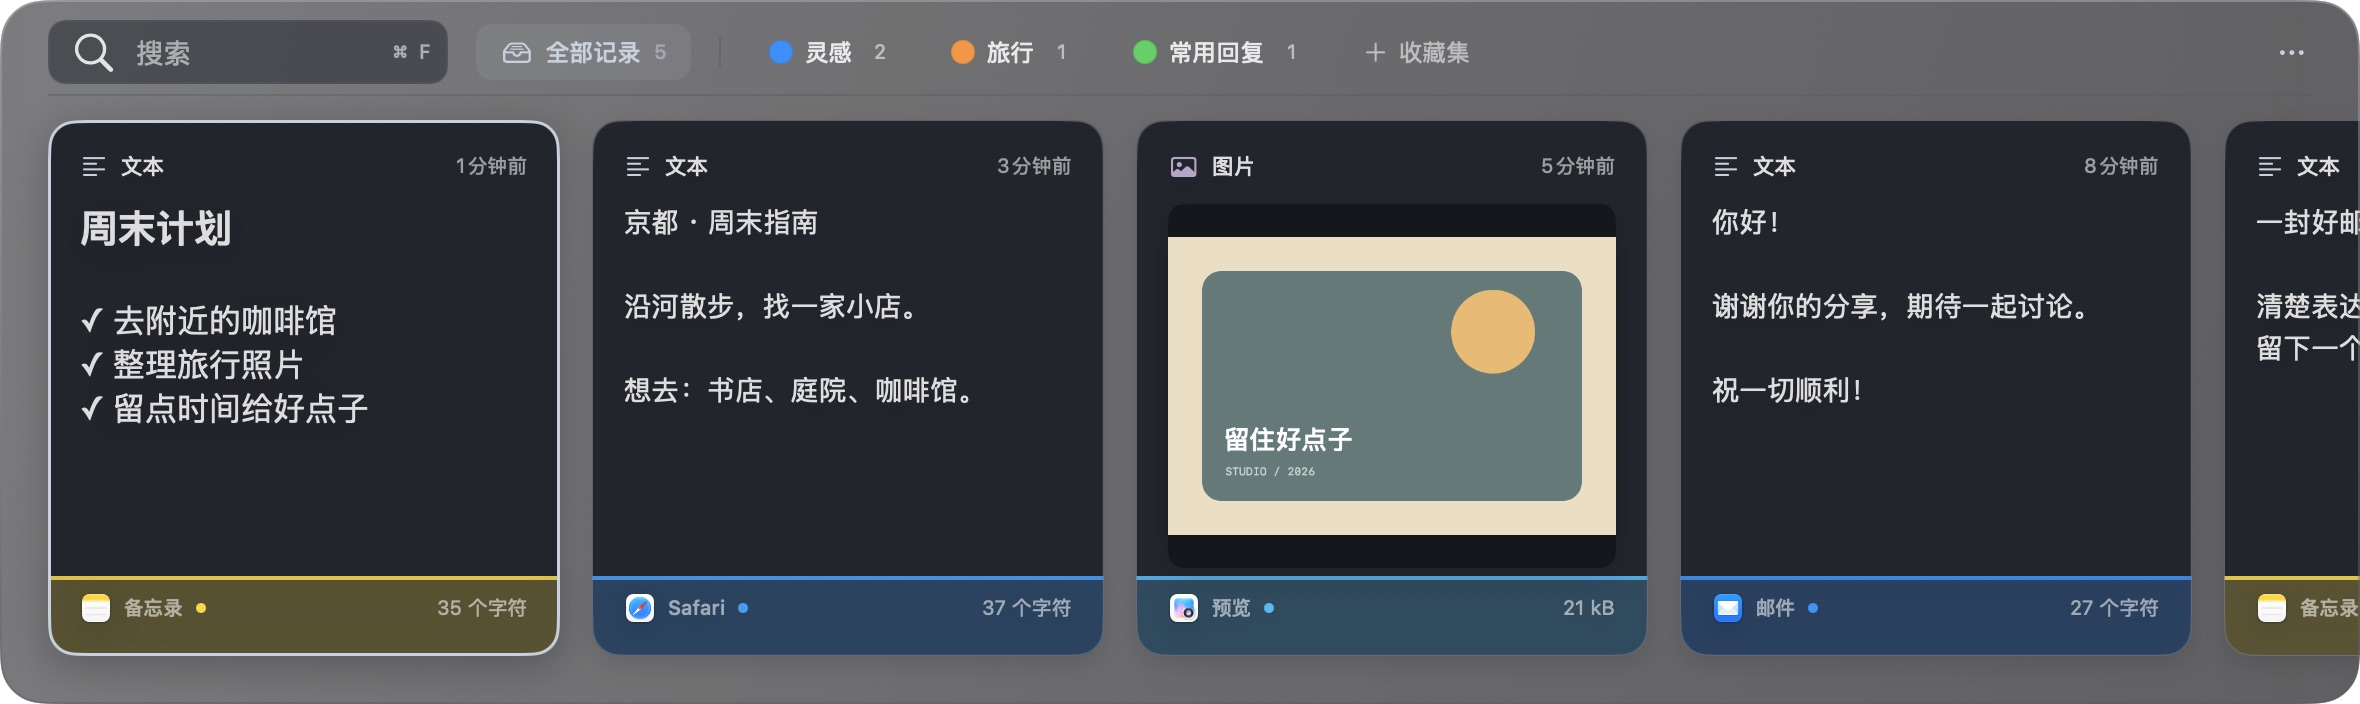
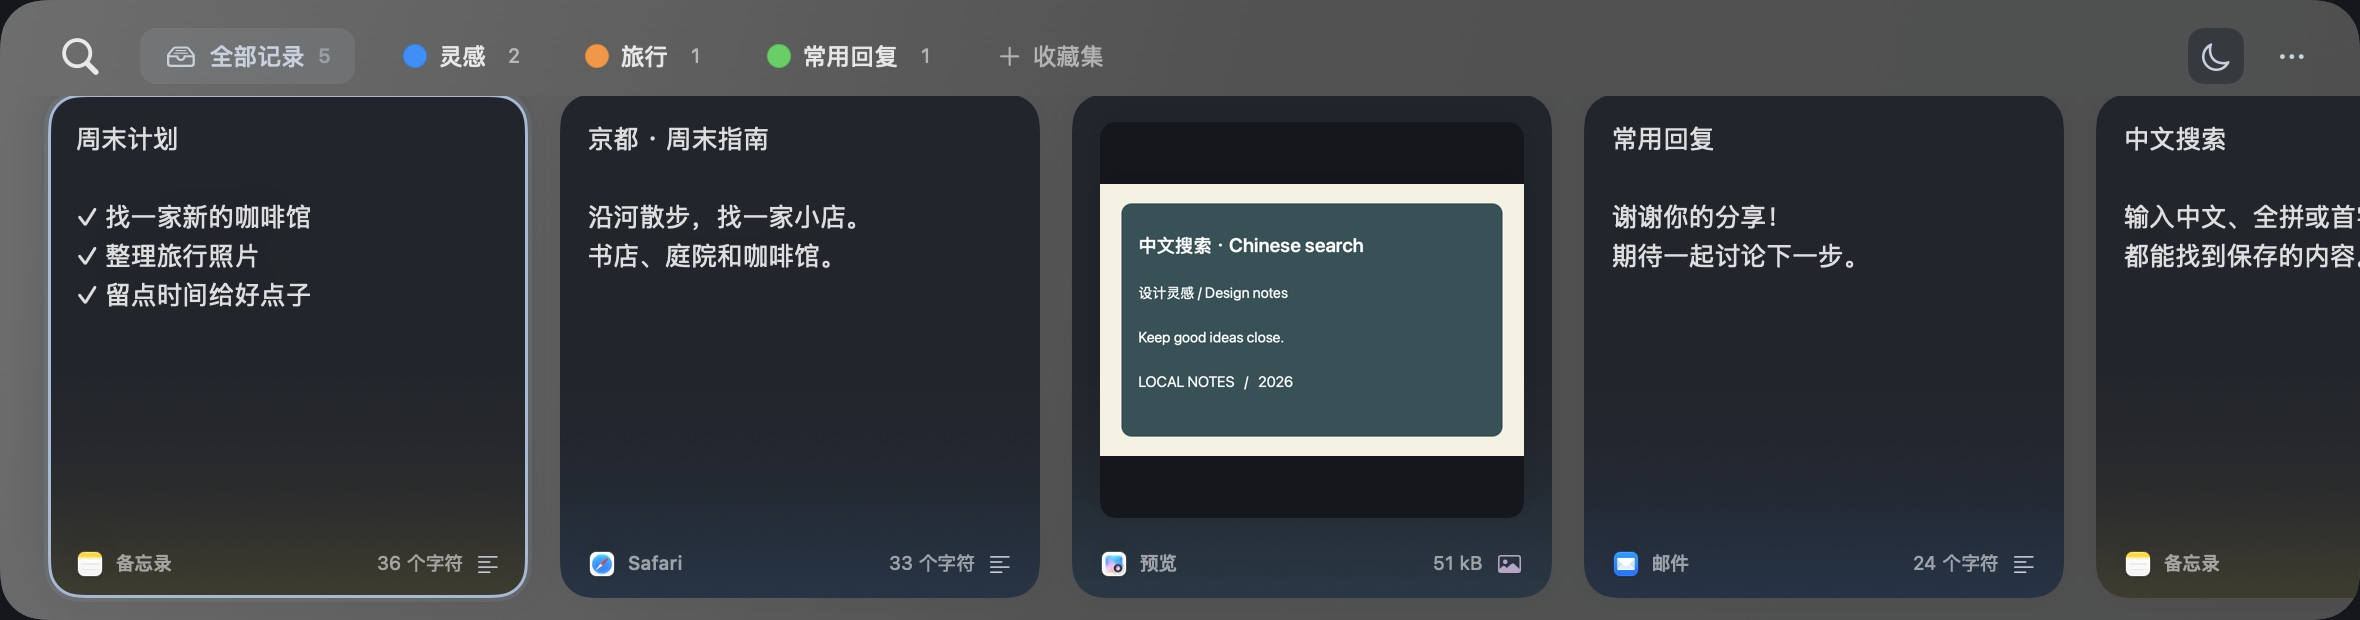
docs: illustrate features with isolated bilingual screenshots

diff --git a/docs/screenshots/main.swift b/docs/screenshots/main.swift
@@ -1,0 +1,142 @@
+import AppKit
+import SwiftUI
+import ClipboardCore
+
+// This executable never orders a window onscreen, activates an app, or uses the general pasteboard.
+@MainActor final class ScreenshotDelegate: NSObject, NSApplicationDelegate {
+    let directory = URL(fileURLWithPath: CommandLine.arguments[1], isDirectory: true)
+    let temporary = FileManager.default.temporaryDirectory.appendingPathComponent(UUID().uuidString)
+    let domain = "local.clipshelf.docs.\(UUID().uuidString)"
+    let board = NSPasteboard(name: .init("ClipShelf-docs-\(UUID().uuidString)"))
+    var chinese = false
+    var model: ClipboardModel!
+    var imageClip: Clip!
+
+    func applicationDidFinishLaunching(_ notification: Notification) {
+        Task {
+            do {
+                try FileManager.default.createDirectory(at: temporary, withIntermediateDirectories: true)
+                try FileManager.default.createDirectory(at: directory, withIntermediateDirectories: true)
+                for language in [AppLanguage.english, .chinese] { try await render(language) }
+                print("Rendered isolated screenshots without activating or displaying a window.")
+                cleanup(); NSApp.terminate(nil)
+            } catch {
+                fputs("Screenshot generation failed: \(error)\n", stderr)
+                cleanup(); exit(1)
+            }
+        }
+    }
+    func cleanup() {
+        board.releaseGlobally()
+        UserDefaults(suiteName: domain)?.removePersistentDomain(forName: domain)
+        try? FileManager.default.removeItem(at: temporary)
+    }
+    func text(_ value: String, app: String, bundle: String) -> Clip {
+        Clip(kind: .text, text: value, sourceName: app, sourceBundle: bundle,
+             items: [[Representation(type: "public.utf8-plain-text", data: Data(value.utf8))]], identity: Data(value.utf8))
+    }
+    func fixture() throws -> History {
+        let artwork = NSImage(size: NSSize(width: 1000, height: 640), flipped: false) { rect in
+            NSColor(srgbRed: 0.96, green: 0.94, blue: 0.88, alpha: 1).setFill(); rect.fill()
+            NSColor(srgbRed: 0.18, green: 0.32, blue: 0.34, alpha: 1).setFill()
+            NSBezierPath(roundedRect: NSRect(x: 50, y: 45, width: 900, height: 550), xRadius: 24, yRadius: 24).fill()
+            let lines = ["中文搜索 · Chinese search", "设计灵感 / Design notes", "Keep good ideas close.", "LOCAL NOTES   /   2026"]
+            for (index, line) in lines.enumerated() {
+                (line as NSString).draw(at: NSPoint(x: 90, y: 470 - index * 105), withAttributes: [
+                    .font: NSFont.systemFont(ofSize: index == 0 ? 46 : 35, weight: index == 0 ? .semibold : .regular),
+                    .foregroundColor: NSColor.white
+                ])
+            }
+            return true
+        }
+        guard let tiff = artwork.tiffRepresentation, let bitmap = NSBitmapImageRep(data: tiff),
+              let png = bitmap.representation(using: .png, properties: [:]) else { throw CocoaError(.fileReadCorruptFile) }
+        imageClip = Clip(kind: .image, text: chinese ? "设计灵感.png" : "Design notes.png", sourceName: chinese ? "预览" : "Preview",
+                         sourceBundle: "com.apple.Preview", items: [[Representation(type: "public.png", data: png)]], identity: png)
+        let notes = text(chinese ? "周末计划\n\n✓ 找一家新的咖啡馆\n✓ 整理旅行照片\n✓ 留点时间给好点子" : "Weekend plans\n\n✓ Find a new coffee spot\n✓ Sort the travel photos\n✓ Make room for good ideas", app: chinese ? "备忘录" : "Notes", bundle: "com.apple.Notes")
+        let travel = text(chinese ? "京都 · 周末指南\n\n沿河散步，找一家小店。\n书店、庭院和咖啡馆。" : "Kyoto · Weekend guide\n\nTake the scenic route.\nFind a bookshop and a quiet cafe.", app: "Safari", bundle: "com.apple.Safari")
+        let reply = text(chinese ? "常用回复\n\n谢谢你的分享！\n期待一起讨论下一步。" : "A thoughtful reply\n\nThanks for sharing!\nLooking forward to the next step.", app: chinese ? "邮件" : "Mail", bundle: "com.apple.mail")
+        let pinyin = text("中文搜索\n\n" + (chinese ? "输入中文、全拼或首字母，\n都能找到保存的内容。" : "Find Chinese text with\nfull pinyin or initials."), app: chinese ? "备忘录" : "Notes", bundle: "com.apple.Notes")
+        var result = History(clips: [notes, travel, imageClip, reply, pinyin], boards: [
+            Pinboard(name: chinese ? "灵感" : "Ideas", color: 1), Pinboard(name: chinese ? "旅行" : "Travel", color: 2),
+            Pinboard(name: chinese ? "常用回复" : "Replies", color: 3)
+        ])
+        for clip in [notes, imageClip!] { result.addToBoard(clipID: clip.id, boardID: result.boards[0].id) }
+        result.addToBoard(clipID: travel.id, boardID: result.boards[1].id)
+        result.addToBoard(clipID: reply.id, boardID: result.boards[2].id)
+        return result
+    }
+    func shelf() -> some View {
+        ShelfView(model: model, dismiss: {}, openSettings: {}, enableCapture: {}, paste: { _, _ in })
+    }
+    func shot<V: View>(_ name: String, _ view: V, width: CGFloat = 1180, height: CGFloat = 310, dark: Bool = false) async throws {
+        let appearance = NSAppearance(named: dark ? .darkAqua : .aqua)!
+        NSApp.appearance = appearance
+        let hosting = NSHostingView(rootView: view.environment(\.colorScheme, dark ? .dark : .light)
+            .frame(width: width, height: height).background(ShelfDesign.canvas))
+        hosting.sizingOptions = []
+        let window = NSWindow(contentRect: NSRect(x: 0, y: 0, width: width, height: height), styleMask: .borderless, backing: .buffered, defer: false)
+        window.isReleasedWhenClosed = false; window.appearance = appearance
+        window.contentView = hosting
+        hosting.frame = NSRect(x: 0, y: 0, width: width, height: height)
+        hosting.layoutSubtreeIfNeeded()
+        try await Task.sleep(for: .milliseconds(350))
+        hosting.layoutSubtreeIfNeeded(); hosting.displayIfNeeded()
+        guard let bitmap = hosting.bitmapImageRepForCachingDisplay(in: hosting.bounds) else { throw CocoaError(.fileWriteUnknown) }
+        hosting.cacheDisplay(in: hosting.bounds, to: bitmap)
+        guard let jpeg = bitmap.representation(using: .jpeg, properties: [.compressionFactor: 0.9]) else { throw CocoaError(.fileWriteUnknown) }
+        try jpeg.write(to: directory.appendingPathComponent("\(name)-\(chinese ? "zh" : "en").jpg"))
+        print("Rendered \(name)-\(chinese ? "zh" : "en").jpg (\(bitmap.pixelsWide)×\(bitmap.pixelsHigh))")
+        window.close()
+    }
+    func render(_ language: AppLanguage) async throws {
+        chinese = language == .chinese
+        AppLocalization.shared.language = language
+        let defaults = UserDefaults(suiteName: domain)!
+        let preferences = Preferences(defaults: defaults)
+        preferences.language = language; preferences.linkPreviews = false; preferences.retention = .forever
+        preferences.appearance = .light
+        let storage = temporary.appendingPathComponent("\(language.rawValue)/history.plist")
+        model = ClipboardModel(pasteboard: board, storageURL: storage, preferences: preferences, searchIndex: MemorySearchIndex())
+        model.history = try fixture(); model.resetSelection()
+        await model.waitForImageText()
+        guard model.imageTextError == nil else { throw CocoaError(.featureUnsupported) }
+        try await shot("clipboard", shelf())
+        preferences.appearance = .dark
+        try await shot("clipboard-dark", shelf(), dark: true)
+        preferences.appearance = .light
+        model.searchShown = true; model.query = "zhongwen"; await model.waitForSearch()
+        try await shot("search-pinyin", shelf())
+        model.query = "zw"; await model.waitForSearch()
+        try await shot("search-initials", shelf())
+        model.filter = .image; model.query = "中文"; await model.waitForSearch()
+        guard !model.imageTextHighlights(for: imageClip).isEmpty else { throw CocoaError(.featureUnsupported) }
+        try await shot("image-search", shelf())
+        try await shot("image-preview", ClipPreview(clip: imageClip, model: model, close: {}), width: 660, height: 450)
+        model.clearSearch(); model.searchShown = true
+        model.selectedSourceIDs = Set(model.sourceApps.prefix(3).map(\.id))
+        try await shot("source-filters", shelf())
+        model.clearSearch(); model.searchShown = false; model.selectedBoardID = model.history.boards[0].id; model.resetSelection()
+        model.selection.selectAll(in: model.visible.map(\.id))
+        try await shot("collections", shelf())
+        model.selectedBoardID = nil; model.resetSelection(); model.updateQuickPasteModifier(.command)
+        try await Task.sleep(for: .milliseconds(180))
+        try await shot("quick-paste", shelf())
+        model.updateQuickPasteModifier([])
+        model.stackPasteAvailable = true; model.stackIDs = Array(model.history.clips.prefix(3).map(\.id)); model.startStack(includeSelection: false)
+        try await shot("sequential-paste", StackView(model: model, openSettings: {}, finish: {}), width: 360, height: 440)
+        try await shot("settings", SettingsView(model: model, preferences: preferences, changeShortcut: { _, _ in }, recordingChanged: { _ in }, enableCapture: {}), width: 820, height: 740)
+        let keyboardState = SettingsState(); keyboardState.page = .shortcuts
+        try await shot("settings-shortcuts", SettingsView(model: model, preferences: preferences, changeShortcut: { _, _ in }, recordingChanged: { _ in }, enableCapture: {}, state: keyboardState), width: 820, height: 820)
+        guard await model.finishPendingStorage() else { throw CocoaError(.fileWriteUnknown) }
+        model = nil
+    }
+}
+
+MainActor.assumeIsolated {
+    let app = NSApplication.shared
+    app.setActivationPolicy(.prohibited)
+    let delegate = ScreenshotDelegate()
+    app.delegate = delegate
+    withExtendedLifetime(delegate) { app.run() }
+}

diff --git a/Sources/ClipShelf/SettingsView.swift b/Sources/ClipShelf/SettingsView.swift
@@ -4,14 +4,14 @@ import ServiceManagement
 import UniformTypeIdentifiers
 import ApplicationServices
 
-private enum SettingsPage: String, CaseIterable, Identifiable {
+enum SettingsPage: String, CaseIterable, Identifiable {
     case general = "通用", intelligence = "智能", privacy = "隐私", shortcuts = "键盘快捷键"
     var id: Self { self }
     var symbol: String { switch self { case .general: "gearshape"; case .intelligence: "sparkles"; case .privacy: "hand.raised"; case .shortcuts: "keyboard" } }
 }
 
 @MainActor
-private final class SettingsState: ObservableObject {
+final class SettingsState: ObservableObject {
     @Published var page = SettingsPage.general
     @Published var loginEnabled = SMAppService.mainApp.status == .enabled || SMAppService.mainApp.status == .requiresApproval
     @Published var loginBusy = false
@@ -40,7 +40,7 @@ struct SettingsView: View {
     let changeShortcut: (ShortcutAction, KeyBinding?) -> Void
     let recordingChanged: (Bool) -> Void
     let enableCapture: () -> Void
-    @StateObject private var state = SettingsState()
+    @StateObject var state = SettingsState()
     @Environment(\.accessibilityReduceMotion) private var reduceMotion
     private var excluded: [String] { Array(NSOrderedSet(array: preferences.excludedApps.split(whereSeparator: \.isNewline).map { $0.trimmingCharacters(in: .whitespacesAndNewlines) })) as? [String] ?? [] }
 

diff --git a/README.md b/README.md
@@ -37,17 +37,41 @@ Copy text, links, images, or files, then bring up ClipShelf to find them again. 
 - **Clipboard history** — keep recent copies together instead of losing the previous one.
 - **No duplicate clutter** — copying the same content brings its existing card back to the front.
 - **Search and filter** — find content, saved titles, or app names; search Chinese with full pinyin or initials (for example, `zhongwen` or `zw` for 中文), and narrow results by content type.
-- **Search text in images** — on-device Apple OCR recognizes Chinese and English in the background, including existing image history. Search recognized text in Chinese, full pinyin, or initials, with matching words highlighted in image cards. Results are cached; recognition yields while typing, composing Chinese, or navigating cards.
+- **Search text in images** — on-device Apple OCR recognizes Chinese and English in the background, including existing image history. Search recognized text in Chinese, full pinyin, or initials, with matching words highlighted in image cards and enlarged previews. Single image files are recognized as images, including previously misclassified history. Results are cached; recognition yields while typing, composing Chinese, or navigating cards.
 - **Filter by source app** — choose one or more apps from the filter menu or inline suggestions. Removable app tokens combine with keywords and content types; when they overflow, a count badge shows the full list on hover and individual removal on click. Use ↑↓ and Return to choose a suggestion; otherwise Return focuses results, a second Return pastes, and Tab / Shift-Tab selects the next / previous card.
 - **Keep the formatting** — see formatted text, images, and file thumbnails right on the cards.
 - **Preview with Space** — take a closer look at text, images, or files before pasting.
 - **Recognize the source** — app icons and colored card footers show where each item came from.
+
+### Chinese, full pinyin, or initials
+
+Find Chinese content without switching input methods: `zhongwen` and `zw` both match 中文. The same matching works for recognized image text.
+
+![Searching Chinese clipboard content with full pinyin](docs/images/search-pinyin-en.jpg)
+
+![Searching Chinese clipboard content with pinyin initials](docs/images/search-initials-en.jpg)
+
+### Find words inside images
+
+OCR runs locally in the background for new and existing images. Search results highlight the matching words directly on the image; press **Space** to inspect the same highlights in a larger preview.
+
+![On-device OCR search highlighting Chinese words in an image card](docs/images/image-search-en.jpg)
+
+![Enlarged image preview with the matching OCR text highlighted](docs/images/image-preview-en.jpg)
+
+### Combine source apps and search
+
+Select multiple source apps, then add keywords or a content-type filter. App tokens collapse into a compact count when they would take too much space; hover to see the full list, or click to remove sources individually.
+
+![Multiple source apps combined into a compact filter count](docs/images/source-filters-en.jpg)
 
 ## Save your favorites in collections
 
 Create collections for ideas, travel plans, reusable replies, or anything worth keeping. Give each collection a name and color, then drag cards into it.
 
 Select several cards to organize them together. Drop cards onto **+ Collections** to create a collection as you go. Delete an unwanted card directly, and undo an accidental deletion with **⌘Z**.
+
+![Multiple selected cards saved in the Ideas collection](docs/images/collections-en.jpg)
 
 ## Paste with fewer steps
 
@@ -57,13 +81,23 @@ Select several cards to organize them together. Drop cards onto **+ Collections*
 - **Plain text:** paste without formatting when that is what you need.
 - **Multiple selections:** copy, paste, organize, or delete several cards together.
 
+Hold the configured modifier alone to reveal numbers and card times. Numbering can follow the visible cards instead of the start of the history.
+
+![Numbered visible cards and timestamps while holding Command](docs/images/quick-paste-en.jpg)
+
+![Keyboard settings including numbering from visible cards and the configurable paste modifier](docs/images/settings-shortcuts-en.jpg)
+
+Build a queue, change its order, and paste each item into your destination app. Press the sequential shortcut again to finish.
+
+![Sequential clipboard queue containing sample text and an image](docs/images/sequential-paste-en.jpg)
+
 ## Make it yours
 
 Choose **English** or **中文**, set your own shortcuts, and decide how long to keep your history. Pick whether a card pastes into your current app or simply returns to the clipboard.
 
 The interface combines a frosted-glass shelf, readable cards, and source-app colors. Open and dismiss it with a shortcut whenever you need it.
 
-![ClipShelf settings with English selected and sample preferences](docs/images/settings-en.jpg)
+![Current settings with English selected and history retention set to Forever](docs/images/settings-en.jpg)
 
 ## Dark mode
 
@@ -115,3 +149,5 @@ Direct pasting needs your permission in macOS settings. You can also copy a card
 ---
 
 *All screenshots show isolated sample content, never personal clipboard history.*
+
+Screenshot generation is reproducible and runs offscreen without activating windows or reading the system clipboard. See [the screenshot renderer](docs/screenshots/README.md).

diff --git a/README.zh-CN.md b/README.zh-CN.md
@@ -37,17 +37,41 @@ brew install --cask zxdposter/tap/clipshelf
 - **剪贴板历史**：集中保存最近复制的内容，不再被下一次复制覆盖。
 - **自动去重**：再次复制相同内容时，将原有卡片移到最前面。
 - **搜索与筛选**：按内容、保存的标题或来源应用查找；中文支持全拼与首字母（如用 `zhongwen` 或 `zw` 搜索「中文」），也可按内容类型筛选。
-- **图片文字搜索**：使用苹果本地 OCR，在后台识别新图片和已有历史图片中的中英文；支持中文、全拼和首字母搜索，在图片卡片中高亮命中文字，识别结果持久缓存。输入、中文组字和连续切换卡片时，会中断识别并暂缓后续任务和结果更新。
+- **图片文字搜索**：使用苹果本地 OCR，在后台识别新图片和已有历史图片中的中英文；支持中文、全拼和首字母搜索，在图片卡片和放大预览中高亮命中文字。单张图片文件会归为图片，已有误分类记录自动修正。识别结果持久缓存；输入、中文组字和连续切换卡片时，会中断识别并暂缓后续任务和结果更新。
 - **按来源应用筛选**：从筛选菜单或输入时的应用建议中选择来源，可多选；已选应用显示为可移除标签，超宽后合并为数字标签，悬停查看完整列表、点击逐个移除。来源可与关键词、内容类型组合筛选。用 ↑↓ 选择建议、回车确认；搜索中按回车进入结果，再按回车粘贴，Tab / Shift-Tab 选择下一张 / 上一张卡片。
 - **保留文字格式**：卡片直接展示格式文本、图片和文件缩略图。
 - **空格预览**：粘贴前先查看完整文字、图片或文件。
 - **辨认来源**：通过 App 图标和卡片底部的颜色，快速识别内容来自哪里。
+
+### 中文、全拼、首字母，都能找到
+
+不用切换输入法，输入 `zhongwen` 或 `zw` 都能找到「中文」。图片识别出的文字同样支持这三种搜索方式。
+
+![用全拼搜索中文剪贴板内容](docs/images/search-pinyin-zh.jpg)
+
+![用拼音首字母搜索中文剪贴板内容](docs/images/search-initials-zh.jpg)
+
+### 搜索图片里的文字
+
+新图片和已有历史图片都在本机后台识别。搜索后，卡片中的命中文字会高亮；按 **空格** 放大预览，也能看到相同的高亮位置。
+
+![本地 OCR 搜索，在图片卡片中高亮命中的中文](docs/images/image-search-zh.jpg)
+
+![放大预览图片并查看 OCR 搜索命中高亮](docs/images/image-preview-zh.jpg)
+
+### 来源应用与关键词组合筛选
+
+多选来源应用后，可以继续叠加关键词或内容类型。应用标签过宽时会合并为紧凑的数字标签，悬停查看完整列表，点击后逐个移除。
+
+![多个来源应用合并为紧凑的数字筛选标签](docs/images/source-filters-zh.jpg)
 
 ## 用收藏集留住常用内容
 
 为灵感、旅行计划、常用回复或其他重要内容建立收藏集。设置名称和颜色，再把卡片拖进去即可。
 
 支持多选卡片一起整理。将卡片拖到 **+ 收藏集** 上，即可在创建收藏集的同时加入卡片。不需要的卡片直接删除，误删时按 **⌘Z** 撤销。
+
+![灵感收藏集中多选的示例卡片](docs/images/collections-zh.jpg)
 
 ## 更少操作，完成粘贴
 
@@ -57,13 +81,23 @@ brew install --cask zxdposter/tap/clipshelf
 - **纯文本粘贴**：需要时去掉文字格式，直接粘贴纯文本。
 - **多选操作**：多张卡片一起复制、粘贴、整理或删除。
 
+单独按住配置的修饰键时，显示编号和卡片时间；可以从当前可见卡片开始编号，无需从历史第一张算起。
+
+![按住 Command 后显示可见卡片编号和时间](docs/images/quick-paste-zh.jpg)
+
+![键盘快捷键设置，可配置粘贴修饰键与从可见卡片开始编号](docs/images/settings-shortcuts-zh.jpg)
+
+先收集队列、调整顺序，再到目标应用逐项粘贴；再次按下顺序粘贴快捷键即可结束。
+
+![包含示例文字和图片的顺序粘贴队列](docs/images/sequential-paste-zh.jpg)
+
 ## 按你的习惯使用
 
 支持 **中文** 和 **English**，可以自定义快捷键、历史保留时间，以及粘贴到当前应用还是仅复制到剪贴板。
 
 毛玻璃面板搭配清晰的卡片和来源 App 色带，需要时按快捷键呼出，用完即可收起。
 
-![ClipShelf 中文设置页，使用独立示例偏好设置](docs/images/settings-zh.jpg)
+![新版中文设置页，历史保留设为永久，使用独立示例偏好设置](docs/images/settings-zh.jpg)
 
 ## 夜间模式
 
@@ -115,3 +149,5 @@ brew install --cask zxdposter/tap/clipshelf
 ---
 
 *所有截图均使用独立示例内容，不包含个人剪贴板历史。*
+
+截图可通过[离屏渲染脚本](docs/screenshots/README.md)重新生成：不激活窗口、不读取系统剪贴板，也不打断前台操作。

diff --git a/docs/screenshots/README.md b/docs/screenshots/README.md
@@ -1,0 +1,13 @@
+# Documentation screenshots
+
+Run on macOS with Command Line Tools installed:
+
+```sh
+bash docs/screenshots/render.sh
+```
+
+The script compiles the current application views with a separate entry point and runs compilation and rendering at a lower scheduling priority. It renders English and Chinese JPEGs into `docs/images/` using hidden hosting windows, without calling `orderFront`, `makeKeyAndOrderFront`, or `activate`. It does not launch or quit the installed application, register global shortcuts, or take a screen capture.
+
+All history, preferences, pasteboard data, and OCR caches are isolated temporary fixtures. The image contains synthetic Chinese and English text; Apple's actual local OCR generates its searchable text and highlight coordinates before rendering. The renderer checks that the query produces highlight boxes rather than drawing a made-up overlay. History and settings fixtures are removed when rendering finishes; the compiled helper remains in its printed temporary build directory.
+
+Scenes cover the current light and dark shelf, full-pinyin and initials searches, image text search, enlarged preview highlights, compact source filters, collection selection, modifier hints, sequential queue, general settings, and keyboard settings. The keyboard page receives its own isolated settings state; no clicks or accessibility control are needed. These are offscreen renders of the real views, not a recording or an end-to-end interaction test.
